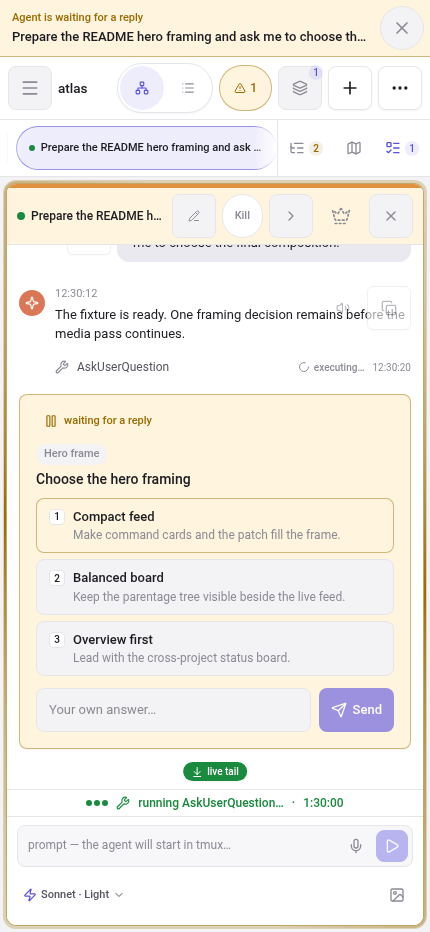
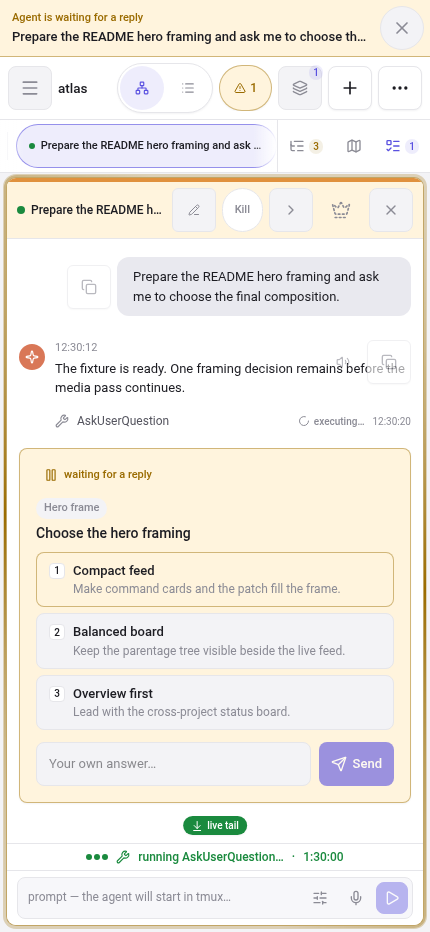
docs(mobile): measured chat-first budget gate + regenerated evidence (#419)
Replace the self-declared data-chat-min-share gate with a real measurement:
the LogFeed scroller ([data-log-feed-scroller]) rendered height over the
usable visual viewport, required >= 0.60 at 390x844 and 430x932 in the
default folded state (waiting focused conversation, long metadata, folded
runtime controls, five docked pipelines).

- Attachments: staged live via DOM.setFileInputFiles — the picker adds no
  persistent row (folded), a staged image is transient (no h-overflow) and
  reserves zero height once cleared, restoring the >= 0.60 budget.
- Expanded worst case: opening the details + composer-options disclosures
  introduces no horizontal overflow.
- Regenerated fully synthetic 390/430/desktop PNGs; desktop unchanged.

Changed region(s): [[0.0, 0.1245, 0.9977, 0.9957]]

diff --git a/docs/media/issue-419-chat-first/capture.ts b/docs/media/issue-419-chat-first/capture.ts
@@ -9,9 +9,21 @@
  *   - chat-first-390.png     390×844 phone, chat-first shell (folded chrome)
  *   - chat-first-430.png     430×932 phone, chat-first shell (folded chrome)
  *
- * Every phone frame asserts the chat-first contract before capture:
+ * Every phone frame asserts the chat-first contract before capture by MEASURING
+ * rendered geometry (never a self-declared constant):
  *   - document.scrollWidth === window.innerWidth (no document-level h-overflow),
- *   - the focus shell exposes data-chat-min-share >= 0.6,
+ *   - the real LogFeed scroller ([data-log-feed-scroller]) owns >= 0.60 of the
+ *     usable visual viewport (visualViewport.height) in the default chat-first
+ *     state — a waiting focused conversation with long metadata, folded runtime
+ *     controls, and many docked pipelines,
+ *   - with the conversation-details AND composer-options disclosures driven open
+ *     (materializing the long metadata row and the model/reasoning + attachment
+ *     row), the document still shows no horizontal overflow,
+ *   - attachments add no PERSISTENT chrome: the image picker is folded behind the
+ *     composer-options disclosure, and a staged image is transient operator
+ *     content (its preview tray legitimately consumes space while shown, with no
+ *     horizontal overflow) that reserves ZERO height once cleared — the default
+ *     >= 0.60 budget is fully restored,
  *   - the focused chat reserves ZERO persistent bottom rows: the pipeline
  *     summary rides the top strip and no MobilePipelineSummaryRow /
  *     MobileBottomShelf row is rendered inline.
@@ -34,6 +46,54 @@ const { bootstrapDemoRuntime, renderFixtureTemplate, claudePath, DEMO_FIXED_ISO 
 
 const PORT = 3043;
 const OUT_DIR = path.join(repoRoot, "docs/media/issue-419-chat-first");
+
+/* A 1×1 PNG staged into the composer to exercise the attachment path (issue
+   #419 §attachments): a real image so the preview tray renders and its height
+   enters the measured transcript budget. */
+const ATTACHMENT_PNG_B64 =
[1 lines of base64/hex data omitted]
+
+/* Measures the REAL chat-first budget from rendered geometry: the LogFeed
+   scroller height against the usable visual viewport, plus the overflow and
+   zero-bottom-row invariants. Returned as JSON so a self-declared constant can
+   never stand in for measured layout (round-1 finding 1). */
+const MEASURE_EXPR = `(() => {
+  const shell = document.querySelector('[data-testid="mobile-chat-shell"]');
+  const feed = shell && shell.querySelector('[data-log-feed-scroller]');
+  const vv = window.visualViewport;
+  const usable = Math.round(vv ? vv.height : window.innerHeight);
+  const feedH = feed ? Math.round(feed.getBoundingClientRect().height) : 0;
+  return JSON.stringify({
+    hasShell: !!shell,
+    hasFeed: !!feed,
+    feedH,
+    usable,
+    share: usable > 0 ? feedH / usable : 0,
+    scrollWidth: document.documentElement.scrollWidth,
+    innerWidth: window.innerWidth,
+    bottomShelfRows: document.querySelectorAll('[data-testid="mobile-bottom-shelf"]').length,
+    pipelineTriggers: document.querySelectorAll('[data-testid="mobile-pipeline-summary"]').length,
+    attachmentTrays: document.querySelectorAll('[data-testid="mobile-chat-shell"] [data-testid="attachment-tray"]').length,
+  });
+})()`;
+
+type ChatMeasure = {
+  hasShell: boolean;
+  hasFeed: boolean;
+  feedH: number;
+  usable: number;
+  share: number;
+  scrollWidth: number;
+  innerWidth: number;
+  bottomShelfRows: number;
+  pipelineTriggers: number;
+  attachmentTrays: number;
+};
+
+/* Clicks a chat-shell disclosure toggle by test id when it is in `want` state. */
+function toggleExpr(testid: string, want: "true" | "false"): string {
+  return `(() => { const s = document.querySelector('[data-testid="mobile-chat-shell"]'); const b = s && s.querySelector('[data-testid="${testid}"]'); if (b && b.getAttribute('aria-expanded') === '${want}') { b.click(); return true; } return false; })()`;
+}
 
 type CdpResponse = { result?: { value?: unknown }; data?: string };
 type Cdp = {
@@ -169,6 +229,29 @@ function pipelineFixture(home: string): unknown {
         cursor: null,
         state: "completed", pausedState: null, closedAt: "2100-01-02T10:30:00.000Z",
       }),
+      /* Two more live chains so the phone docks MANY pipelines (five total): the
+         folded pipelines icon must still keep the transcript dominant when the
+         board behind it is busy. */
+      shell("a4190004", "Composer disclosure fold", {
+        runs: [
+          { stageId: "plan", attempts: [attempt(1, { agentPath: planPath, output: "Plan: fold the composer second row." })] },
+          { stageId: "implement", attempts: [attempt(1, { input: "Plan: fold the composer second row.", activatedBy: { stageId: "plan", attempt: 1, edge: "pass" }, output: "Primary-row disclosure landed." })] },
+          { stageId: "verify", attempts: [
+            attempt(1, { state: "running", agentPath: verifyPath, completedAt: null, input: "Primary-row disclosure landed.", activatedBy: { stageId: "implement", attempt: 1, edge: "pass" }, output: null, verdict: null }),
+          ] },
+        ],
+        cursor: { stageId: "verify", state: "running", input: "Primary-row disclosure landed.", activatedBy: { stageId: "implement", attempt: 1, edge: "pass" } },
+        state: "paused", pausedState: "running",
+      }),
+      shell("a4190005", "Shelf modal lifecycle", {
+        runs: [
+          { stageId: "plan", attempts: [attempt(1, { agentPath: planPath, output: "Plan: give the shelf modal semantics." })] },
+          { stageId: "implement", attempts: [attempt(1, { input: "Plan: give the shelf modal semantics.", activatedBy: { stageId: "plan", attempt: 1, edge: "pass" }, output: "Focus trap + scroll lock landed." })] },
+          { stageId: "verify", attempts: [attempt(1, { input: "Focus trap + scroll lock landed.", activatedBy: { stageId: "implement", attempt: 1, edge: "pass" }, output: "All checks pass." })] },
+        ],
+        cursor: null,
+        state: "completed", pausedState: null, closedAt: "2100-01-02T10:40:00.000Z",
+      }),
     ],
   };
 }
@@ -194,6 +277,10 @@ async function main() {
     const portFile = path.join(chromeDir, "DevToolsActivePort");
     for (let i = 0; i < 100 && !fs.existsSync(portFile); i += 1) await Bun.sleep(200);
     const debugPort = fs.readFileSync(portFile, "utf8").split("\n")[0]!.trim();
+
+    /* Staged on the same host Chrome reads from, for DOM.setFileInputFiles. */
+    const attachmentPngPath = path.join(chromeDir, "attachment.png");
+    fs.writeFileSync(attachmentPngPath, Buffer.from(ATTACHMENT_PNG_B64, "base64"));
 
     const shots = [
       { name: "board-desktop.png", width: 1920, height: 1080, mobile: false, view: "board" as const },
@@ -228,26 +315,77 @@ async function main() {
       await Bun.sleep(600);
 
       if (shot.mobile) {
-        /* No document-level horizontal overflow (#353 class). */
-        const measured = await evalJson<{ scrollWidth: number; innerWidth: number }>(cdp, `JSON.stringify({ scrollWidth: document.documentElement.scrollWidth, innerWidth: window.innerWidth })`);
-        if (measured.scrollWidth !== measured.innerWidth) {
-          throw new Error(`overflow gate failed (${shot.name}): scrollWidth ${measured.scrollWidth} != innerWidth ${measured.innerWidth}`);
+        /* Wait for the LogFeed scroller to mount and lay out before measuring. */
+        await evalUntil(cdp, `!!document.querySelector('[data-testid="mobile-chat-shell"] [data-log-feed-scroller]')`, 30_000);
+        await Bun.sleep(500);
+
+        /* GATE — measure the REAL transcript budget in the default chat-first
+           state (waiting focused conversation, folded chrome, many docked
+           pipelines): the LogFeed scroller height over the usable visual
+           viewport must clear 0.60, with no document-level horizontal overflow
+           (#353 class) and ZERO persistent bottom rows (pipeline summary is a
+           top-strip trigger; the shelf is an overlay). */
+        const base = await evalJson<ChatMeasure>(cdp, MEASURE_EXPR);
+        if (!base.hasFeed) throw new Error(`feed scroller missing (${shot.name})`);
+        if (base.scrollWidth !== base.innerWidth) throw new Error(`overflow gate failed (${shot.name}): scrollWidth ${base.scrollWidth} != innerWidth ${base.innerWidth}`);
+        if (base.bottomShelfRows !== 0) throw new Error(`bottom-shelf row present (${shot.name}): expected 0, got ${base.bottomShelfRows}`);
+        if (!(base.share >= 0.6)) throw new Error(`chat budget gate failed (${shot.name}): measured transcript share ${base.share.toFixed(3)} (feed ${base.feedH}px / usable ${base.usable}px) < 0.60`);
+        console.log(`${shot.name} default chat-first budget: share ${base.share.toFixed(3)} (feed ${base.feedH}px / usable ${base.usable}px), pipelineTriggers ${base.pipelineTriggers}, bottomShelfRows 0, scrollWidth ${base.scrollWidth} === innerWidth ${base.innerWidth}`);
+
+        /* Attachment coverage. The image affordance never adds a PERSISTENT row:
+           the picker is folded behind the composer-options disclosure (issue
+           #419), so the default budget above already reflects zero attachment
+           chrome. A staged image is TRANSIENT operator content — its preview
+           tray is expected to consume space while present (the transcript yields
+           to it, as it should) — so the contract is that it (a) stages without
+           horizontal overflow and (b) reserves ZERO height once cleared, i.e.
+           the default >= 0.60 budget is fully restored. Images are either
+           capability-folded (picker disabled, no input) or exercised live. */
+        await cdp.send("DOM.enable");
+        await cdp.send("Runtime.evaluate", { expression: toggleExpr("composer-options-toggle", "false"), returnByValue: true });
+        await Bun.sleep(300);
+        const picker = await evalJson<{ hasInput: boolean; disabled: boolean | null }>(cdp, `(() => { const s = document.querySelector('[data-testid="mobile-chat-shell"]'); const i = s && s.querySelector('input[type=file]'); return JSON.stringify({ hasInput: !!i, disabled: i ? !!i.disabled : null }); })()`);
+        if (picker.hasInput && picker.disabled === false) {
+          const handle = await cdp.send("Runtime.evaluate", { expression: `document.querySelector('[data-testid="mobile-chat-shell"] input[type=file]')` });
+          const objectId = (handle.result as { objectId?: string } | undefined)?.objectId;
+          if (!objectId) throw new Error(`could not resolve the composer file input (${shot.name})`);
+          await cdp.send("DOM.setFileInputFiles", { files: [attachmentPngPath], objectId });
+          await evalUntil(cdp, `!!document.querySelector('[data-testid="mobile-chat-shell"] [data-testid="attachment-tray"]')`, 15_000);
+          await Bun.sleep(300);
+          /* Fold the options row again so the tray is the only added element. */
+          await cdp.send("Runtime.evaluate", { expression: toggleExpr("composer-options-toggle", "true"), returnByValue: true });
+          await Bun.sleep(200);
+          const withAttachment = await evalJson<ChatMeasure>(cdp, MEASURE_EXPR);
+          if (withAttachment.attachmentTrays < 1) throw new Error(`attachment tray missing after staging (${shot.name})`);
+          if (withAttachment.scrollWidth !== withAttachment.innerWidth) throw new Error(`attachment overflow gate failed (${shot.name}): scrollWidth ${withAttachment.scrollWidth} != innerWidth ${withAttachment.innerWidth}`);
+          console.log(`${shot.name} attachment (staged, transient): share ${withAttachment.share.toFixed(3)} (feed ${withAttachment.feedH}px / usable ${withAttachment.usable}px), no h-overflow`);
+          /* Clear the attachment and prove it reserved ZERO height: the default
+             transcript budget must be fully restored to >= 0.60. */
+          await cdp.send("Runtime.evaluate", { expression: `(() => { const tray = document.querySelector('[data-testid="mobile-chat-shell"] [data-testid="attachment-tray"]'); if (!tray) return false; const btns = Array.from(tray.querySelectorAll('button')); const clear = btns.find((b) => /clear|remove|delete|видал|очист/i.test((b.getAttribute('aria-label') || ''))); (clear || btns[0])?.click(); return true; })()`, returnByValue: true });
+          await evalUntil(cdp, `document.querySelectorAll('[data-testid="mobile-chat-shell"] [data-testid="attachment-tray"]').length === 0`, 10_000);
+          await Bun.sleep(200);
+          const cleared = await evalJson<ChatMeasure>(cdp, MEASURE_EXPR);
+          if (!(cleared.share >= 0.6)) throw new Error(`attachment did not reserve zero height (${shot.name}): restored share ${cleared.share.toFixed(3)} < 0.60`);
+          console.log(`${shot.name} attachment cleared: restored share ${cleared.share.toFixed(3)} (feed ${cleared.feedH}px / usable ${cleared.usable}px) — tray reserves zero height`);
+        } else {
+          console.log(`${shot.name} attachment: image picker capability-folded (hasInput ${picker.hasInput}, disabled ${picker.disabled}) — zero attachment row height`);
         }
-        /* Chat-first shell contract: the transcript budget rides the DOM, and the
-           focused chat reserves ZERO persistent bottom rows for the secondary
-           surfaces (pipeline summary is a top-strip trigger; the shelf is an
-           overlay). */
-        const contract = await evalJson<{ minShare: number; bottomShelfRows: number; pipelineSummaryButtons: number }>(cdp, `(() => {
-          const shell = document.querySelector('[data-testid="mobile-chat-shell"]');
-          return JSON.stringify({
-            minShare: Number(shell && shell.getAttribute("data-chat-min-share")),
-            bottomShelfRows: document.querySelectorAll('[data-testid="mobile-bottom-shelf"]').length,
-            pipelineSummaryButtons: document.querySelectorAll('[data-testid="mobile-pipeline-summary"]').length,
-          });
-        })()`);
-        if (!(contract.minShare >= 0.6)) throw new Error(`chat budget gate failed (${shot.name}): data-chat-min-share ${contract.minShare} < 0.6`);
-        if (contract.bottomShelfRows !== 0) throw new Error(`bottom-shelf row present (${shot.name}): expected 0, got ${contract.bottomShelfRows}`);
-        console.log(`${shot.name} chat-first gate: minShare ${contract.minShare}, bottomShelfRows 0, pipelineTriggers ${contract.pipelineSummaryButtons}, scrollWidth ${measured.scrollWidth} === innerWidth ${measured.innerWidth}`);
+
+        /* Expanded worst case: open BOTH disclosures (the long-metadata row and
+           the composer model/reasoning + attachment row) and confirm no
+           horizontal overflow persists; the expanded share is logged for the
+           record (opening chrome is the operator's explicit act). */
+        await cdp.send("Runtime.evaluate", { expression: toggleExpr("mobile-details-toggle", "false"), returnByValue: true });
+        await cdp.send("Runtime.evaluate", { expression: toggleExpr("composer-options-toggle", "false"), returnByValue: true });
+        await Bun.sleep(300);
+        const expanded = await evalJson<ChatMeasure>(cdp, MEASURE_EXPR);
+        if (expanded.scrollWidth !== expanded.innerWidth) throw new Error(`expanded overflow gate failed (${shot.name}): scrollWidth ${expanded.scrollWidth} != innerWidth ${expanded.innerWidth}`);
+        console.log(`${shot.name} expanded (details+options open): share ${expanded.share.toFixed(3)} (feed ${expanded.feedH}px / usable ${expanded.usable}px), scrollWidth ${expanded.scrollWidth} === innerWidth ${expanded.innerWidth}`);
+
+        /* Restore the clean chat-first default for the screenshot. */
+        await cdp.send("Runtime.evaluate", { expression: toggleExpr("mobile-details-toggle", "true"), returnByValue: true });
+        await cdp.send("Runtime.evaluate", { expression: toggleExpr("composer-options-toggle", "true"), returnByValue: true });
+        await Bun.sleep(300);
       } else {
         await cdp.send("Runtime.evaluate", { expression: `
           const fit = Array.from(document.querySelectorAll("button")).find((b) => (b.getAttribute("title") || "").startsWith("Fit all content"));

diff --git a/docs/media/issue-419-chat-first/README.md b/docs/media/issue-419-chat-first/README.md
@@ -3,7 +3,7 @@
 Deterministic, fully **synthetic** evidence for the chat-first mobile repair. No
 operator project, path, account, or state appears here — the frames are captured
 against the pinned demo fixture runtime (isolated `$HOME`, fixed clock) with
-three fictional `atlas` pipelines injected by `capture.ts`.
+five fictional `atlas` pipelines injected by `capture.ts`.
 
 ## Regenerate
 
@@ -17,12 +17,27 @@ three PNGs. Each phone frame **asserts before capture**:
 
 - `document.scrollWidth === window.innerWidth` — no document-level horizontal
   overflow (the #353 class);
-- the focus shell exposes `data-chat-min-share >= 0.6` — the transcript owns at
-  least 60% of the usable viewport before the keyboard opens (see
-  `src/components/mobile/chatBudget.ts`);
+- the **measured** transcript share `>= 0.60` — the real LogFeed scroller
+  (`[data-log-feed-scroller]`) rendered height over the usable visual viewport
+  (`visualViewport.height`), taken from live geometry rather than any
+  self-declared constant. The measured state is the default chat-first shell: a
+  waiting focused conversation with long metadata, folded runtime controls, and
+  many docked pipelines;
+- attachments add no persistent chrome — the image picker folds behind the
+  composer-options disclosure, and a staged image is transient operator content
+  (its preview tray consumes space only while shown, with no horizontal overflow)
+  that reserves **zero** height once cleared, fully restoring the `>= 0.60`
+  budget;
+- with the conversation-details **and** composer-options disclosures driven open
+  (materializing the long-metadata row and the model/reasoning + attachment
+  row), the document still shows **no** horizontal overflow;
 - the focused chat renders **zero** `mobile-bottom-shelf` rows — every secondary
   surface (pipelines, handoff, hidden/readiness) reserves no persistent bottom
   height and opens from a compact top-chrome trigger or overlay instead.
+
+The bottom shelf (`MobileBottomShelf`) opens as a real modal dialog: `aria-modal`,
+focus moves into it, Tab is trapped, Escape closes it, focus returns to the
+opener, and body scroll locks while it is up.
 
 ## Frames
 
@@ -32,9 +47,21 @@ three PNGs. Each phone frame **asserts before capture**:
 | `chat-first-430.png` | 430×932 | The same shell at the larger pinned frame; the extra height goes to the transcript. |
 | `board-desktop.png` | 1920×1080 | Desktop board, unchanged: the scheme keeps every metadata chip and the runtime strip inline. The mobile fold is gated by `useIsMobile`, so desktop is untouched. |
 
-Gate output from the capture run:
+Measured gate output from the capture run (real geometry, not a constant):
 
 ```
-chat-first-390.png chat-first gate: minShare 0.6, bottomShelfRows 0, pipelineTriggers 1, scrollWidth 390 === innerWidth 390
-chat-first-430.png chat-first gate: minShare 0.6, bottomShelfRows 0, pipelineTriggers 1, scrollWidth 430 === innerWidth 430
+chat-first-390.png default chat-first budget: share 0.611 (feed 516px / usable 844px), pipelineTriggers 1, bottomShelfRows 0, scrollWidth 390 === innerWidth 390
+chat-first-390.png attachment (staged, transient): share 0.500 (feed 422px / usable 844px), no h-overflow
+chat-first-390.png attachment cleared: restored share 0.611 (feed 516px / usable 844px) — tray reserves zero height
+chat-first-390.png expanded (details+options open): share 0.428 (feed 361px / usable 844px), scrollWidth 390 === innerWidth 390
+chat-first-430.png default chat-first budget: share 0.648 (feed 604px / usable 932px), pipelineTriggers 1, bottomShelfRows 0, scrollWidth 430 === innerWidth 430
+chat-first-430.png attachment (staged, transient): share 0.547 (feed 510px / usable 932px), no h-overflow
+chat-first-430.png attachment cleared: restored share 0.648 (feed 604px / usable 932px) — tray reserves zero height
+chat-first-430.png expanded (details+options open): share 0.482 (feed 449px / usable 932px), scrollWidth 430 === innerWidth 430
 ```
+
+`share` is the **measured** LogFeed scroller height over the usable visual
+viewport — the default folded state clears `0.60` at both sizes; a staged image
+is transient and reserves zero height once cleared; opening both disclosures (the
+long-metadata row and the composer model/reasoning + attachment row) never
+introduces horizontal overflow.